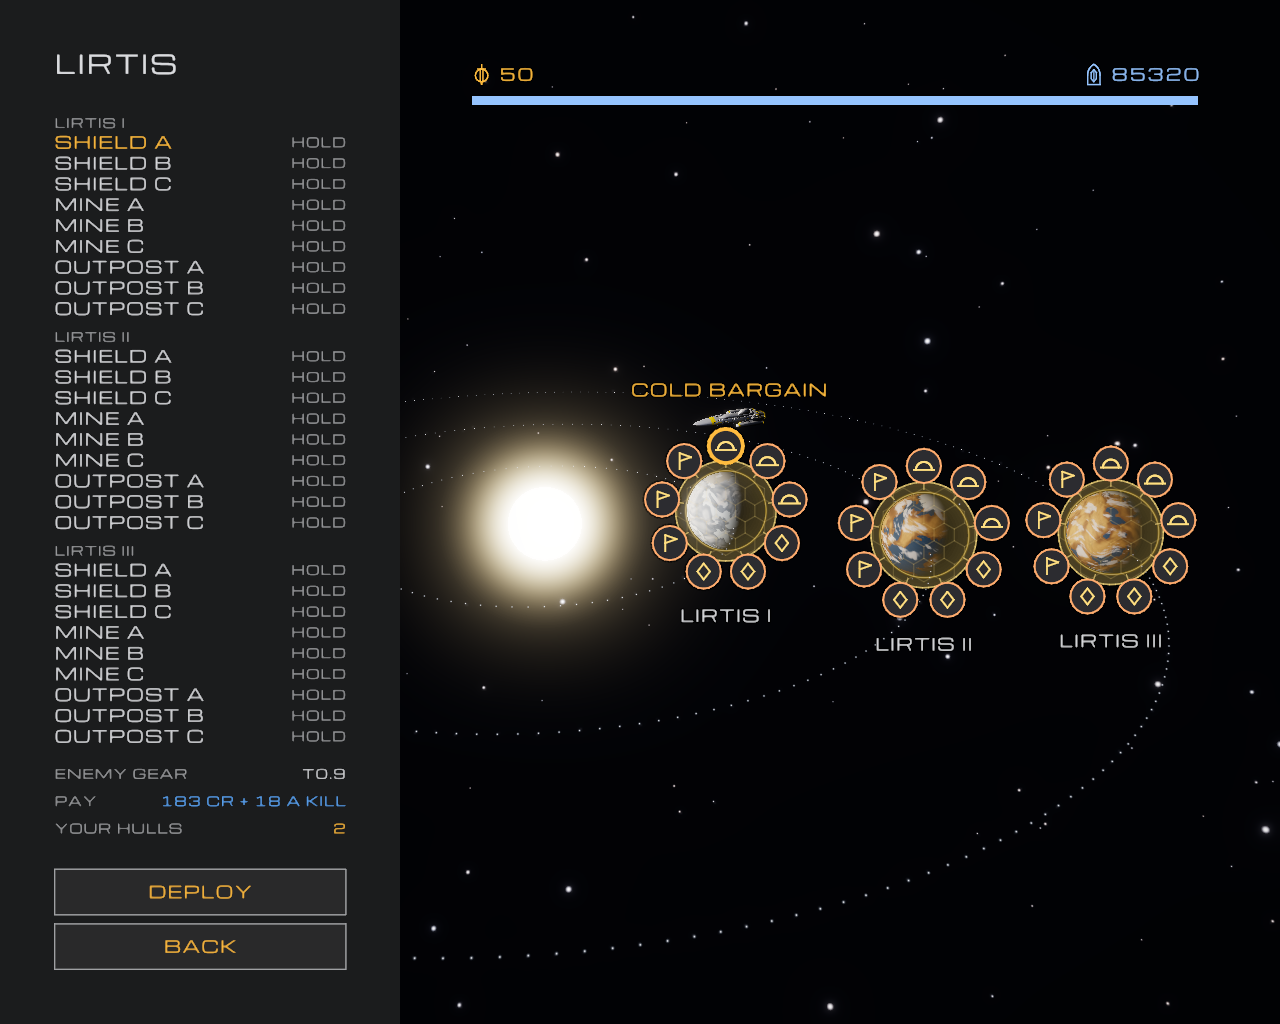
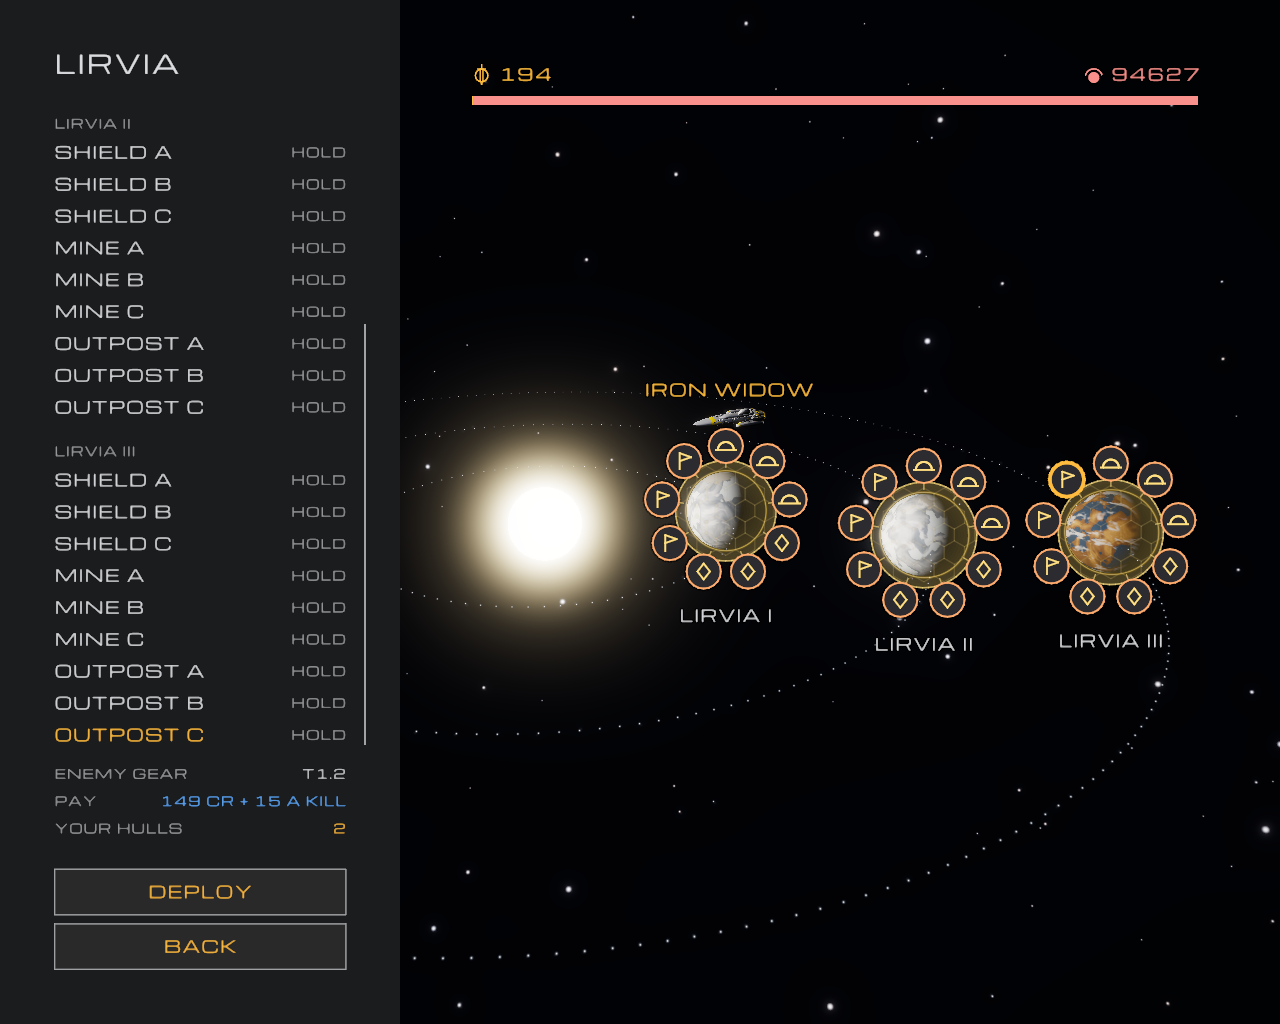
A contract's fights scroll, with a scroll bar (#693)
Claude-Session: https://claude.ai/code/session_01MEmTqDxywBf35SVCWrzMAE

diff --git a/src/menu.rs b/src/menu.rs
@@ -9,6 +9,7 @@
 //! body text. Colour is for signals only: who's hiring, and what's locked.
 
 use glam::Vec2;
+use std::cell::Cell;
 use winit::keyboard::KeyCode;
 
 use crate::binds::{self, ACTIONS, Binds, Context, SLOTS};
@@ -280,6 +281,8 @@ pub struct Menu {
     switched: bool,
     /// Index into the theater's contested sites.
     site: usize,
+    /// The contract page's list of fights, as scrolled.
+    fights: FightScroll,
     /// The contracts on offer (the app keeps them up to date).
     pub board: Board,
     /// The ship whose offer's deal is on screen (a `Company::id`).
@@ -307,6 +310,7 @@ impl Menu {
             clock: 0.0,
             switched: false,
             site: 0,
+            fights: FightScroll::default(),
             board: Board::default(),
             previewing: 0,
             setting: 0,
@@ -418,9 +422,15 @@ impl Menu {
         matches!(self.screen, Screen::Ships | Screen::Contract)
     }
 
-    /// Scroll the board by the wheel. True if it moved.
+    /// Scroll the board, or a contract's fights, by the wheel. True if it moved.
     pub fn scroll(&mut self, steps: i32) -> bool {
-        self.screen == Screen::Ships && self.board.scroll(steps)
+        match self.screen {
+            Screen::Ships => self.board.scroll(steps),
+            Screen::Missions if self.card.is_none() && self.transfer.is_none() => {
+                self.fights.scroll(steps as f32 * FIGHT * 2.0)
+            }
+            _ => false,
+        }
     }
 
     /// The offer whose deal is on screen.
@@ -1036,23 +1046,49 @@ impl Menu {
             .collect();
         let any = !fights.is_empty();
         let site = |k: usize| &t.sites[t.contested[k]];
-        // Set closer where there are too many to fit above the stakes.
-        let mut worlds: Vec<u8> = fights.iter().map(|&k| site(k).planet).collect();
-        worlds.dedup();
-        let room = stakes_y(h) - UNIT * 2.0 - y;
-        let (heading, gap, pitch) = fight_spacing(worlds.len(), fights.len(), room);
-        let mut world = None;
-        for &k in &fights {
-            let s = site(k);
-            if world != Some(s.planet) {
-                if world.is_some() {
-                    y += gap;
+        // Laid out from the list's top: each world's name, then its fights.
+        let mut heads = Vec::new();
+        let mut rows = Vec::new();
+        let mut at = UNIT;
+        for (n, &k) in fights.iter().enumerate() {
+            let planet = site(k).planet;
+            let first = n == 0 || site(fights[n - 1]).planet != planet;
+            let top = at;
+            if first {
+                if n > 0 {
+                    at += UNIT * 1.5;
                 }
-                world = Some(s.planet);
-                let name = planet_name(&t.name, s.planet);
-                p.text(Vec2::new(x, y), &name, &SMALL.colored(TEXT_2), Align::Left);
-                y += heading;
+                heads.push((planet, at));
+                at += UNIT * 3.0;
             }
+            rows.push((k, at, top));
+            at += FIGHT;
+        }
+        let tall = at;
+        // Scrolled and clipped to what's above the stakes, the pick in view
+        // when it's a new one.
+        let pad = (FIGHT - BODY.size) * 0.5;
+        let top = y - UNIT;
+        let view = stakes_y(h) - UNIT * 2.0 - top;
+        let picked = rows.iter().find(|r| r.0 == self.site);
+        let picked = picked.map(|&(k, at, above)| {
+            let key = (t.system, site(k).index);
+            (key, above - UNIT, at - pad + FIGHT)
+        });
+        let off = self.fights.place(picked, view, tall);
+        let clip = (
+            Vec2::new(0.0, top),
+            Vec2::new(right + UNIT * 4.0, top + view),
+        );
+        p.set_clip(Some(clip));
+        for (planet, at) in heads {
+            let name = planet_name(&t.name, planet);
+            let at = Vec2::new(x, top + at - off);
+            p.text(at, &name, &SMALL.colored(TEXT_2), Align::Left);
+        }
+        for &(k, at, _) in &rows {
+            let s = site(k);
+            let y = top + at - off;
             // Lettered, where a world has several of a kind.
             let alike: Vec<usize> = fights
                 .iter()
@@ -1074,14 +1110,24 @@ impl Menu {
             let at = Vec2::new(right, y + (BODY.size - SMALL.size) * 0.5);
             let style = SMALL.colored(design::hovered(TEXT_2, over));
             p.text(at, mode, &style, Align::Right);
-            let pad = (pitch - BODY.size) * 0.5;
-            hits.add(
-                p,
-                Vec2::new(x - UNIT * 2.0, y - pad),
-                Vec2::new(design::COLUMN + UNIT * 4.0, pitch),
-                Hit::Row(k),
-            );
-            y += pitch;
+            // Only what's in view of it can be clicked.
+            let (a, b) = (y - pad, y - pad + FIGHT);
+            let (a, b) = (a.max(clip.0.y), b.min(clip.1.y));
+            if b > a {
+                let size = Vec2::new(design::COLUMN + UNIT * 4.0, b - a);
+                hits.add(p, Vec2::new(x - UNIT * 2.0, a), size, Hit::Row(k));
+            }
+        }
+        p.set_clip(None);
+        // Scroll bar beside the list.
+        let over = tall - view;
+        if over > 0.5 {
+            let len = view * view / tall;
+            let at = Vec2::new(right + UNIT * 2.0, top + (view - len) * off / over);
+            p.rect(at, Vec2::new(2.0, len), TEXT_2);
+        }
+        if any {
+            y = top + tall.min(view);
         }
         let picked = self.selected_site().filter(|s| s.committed);
         let Some(site) = picked.filter(|_| any) else {
@@ -1121,16 +1167,39 @@ fn stakes_y(h: f32) -> f32 {
     design::foot(h, 1).y - UNIT * 2.0 - STAKE * 3.0
 }
 
-/// A contract page's list of `fights` on so many `worlds`: how far each
-/// world's heading is above its first fight, the gap above the next heading,
-/// and from one fight to the next. All closer together, if that's what it
-/// takes to fit in `room`.
-fn fight_spacing(worlds: usize, fights: usize, room: f32) -> (f32, f32, f32) {
-    let (heading, gap, pitch) = (UNIT * 3.0, UNIT * 1.5, UNIT * 3.5);
-    let tall =
-        heading * worlds as f32 + gap * worlds.saturating_sub(1) as f32 + pitch * fights as f32;
-    let k = (room / tall.max(1.0)).min(1.0);
-    (heading * k, gap * k, pitch * k)
+/// From one fight in a contract page's list to the next.
+const FIGHT: f32 = UNIT * 3.5;
+
+/// How far a contract page's list of fights is scrolled.
+#[derive(Default)]
+struct FightScroll {
+    /// How far down, px, and the furthest it goes (as last drawn).
+    off: Cell<f32>,
+    most: Cell<f32>,
+    /// The pick last brought into view: its system and site.
+    shown: Cell<Option<(usize, usize)>>,
+}
+
+impl FightScroll {
+    /// Scroll `by` px, stopping at the ends. True if it moved.
+    fn scroll(&self, by: f32) -> bool {
+        let was = self.off.get();
+        self.off.set((was + by).clamp(0.0, self.most.get()));
+        self.off.get() != was
+    }
+
+    /// How far down a list `tall` is, `view` of it showing; a new pick (its
+    /// system and site, top and bottom) is brought into view.
+    fn place(&self, picked: Option<((usize, usize), f32, f32)>, view: f32, tall: f32) -> f32 {
+        self.most.set((tall - view).max(0.0));
+        if let Some((key, top, bottom)) = picked
+            && self.shown.replace(Some(key)) != Some(key)
+        {
+            self.off.set(self.off.get().min(top).max(bottom - view));
+        }
+        self.scroll(0.0);
+        self.off.get()
+    }
 }
 
 /// The way back, as a button.
@@ -1841,7 +1910,7 @@ mod tests {
     /// Even where every site of the biggest system is fought over: three
     /// worlds, each with three of every kind.
     #[test]
-    fn a_big_systems_fights_fit_above_the_stakes() {
+    fn a_big_systems_fights_scroll_above_the_stakes() {
         use crate::galaxy::SiteKind;
         let mut t = theater(Faction::Ithessar).unwrap();
         let kinds = [
@@ -1868,26 +1937,35 @@ mod tests {
         let mut m = Menu::new();
         m.screen = Screen::Missions;
         m.set_theater(Some(t));
-        let hits = m.draw(&profile, 1600.0, 900.0, 1.0).hits;
-        // Each fight's line can be clicked, down the column, above the
-        // stakes and clear of the last.
-        let x = design::MARGIN;
-        let mut seen = Vec::new();
-        for y in 0..900 {
-            if let Some((Hit::Row(k), _)) = hits.at(Vec2::new(x, y as f32)) {
-                assert!((y as f32) < stakes_y(900.0) - UNIT, "row {k} at {y}");
-                if seen.last() != Some(&k) {
-                    seen.push(k);
+        // The fights that can be clicked, down the column, all above the stakes.
+        let seen = |m: &Menu| {
+            let hits = m.draw(&profile, 1600.0, 900.0, 1.0).hits;
+            let mut seen = Vec::new();
+            for y in 0..900 {
+                if let Some((Hit::Row(k), _)) = hits.at(Vec2::new(design::MARGIN, y as f32)) {
+                    assert!((y as f32) < stakes_y(900.0) - UNIT, "row {k} at {y}");
+                    if seen.last() != Some(&k) {
+                        seen.push(k);
+                    }
                 }
             }
+            seen
+        };
+        let top = seen(&m);
+        assert!(top[0] == 0 && top.len() < 27, "{top:?}");
+        // The wheel goes to the end and no further, the pick staying put.
+        assert!(m.scroll(50) && !m.scroll(1));
+        assert_eq!(seen(&m).last(), Some(&26));
+        assert!(!seen(&m).contains(&m.site));
+        assert!(m.scroll(-50) && !m.scroll(-1));
+        assert_eq!(seen(&m), top);
+        // Keys bring what they pick into view, round and round.
+        for _ in 0..27 {
+            m.input(Nav::Down);
+            assert!(seen(&m).contains(&m.site), "{}", m.site);
         }
-        assert_eq!(seen, (0..27).collect::<Vec<_>>());
-        // With room between lines, and a world's few fights as they were.
-        let room = stakes_y(900.0) - UNIT * 2.0 - design::MARGIN - UNIT * 7.0;
-        let (heading, _, pitch) = fight_spacing(3, 27, room);
-        assert!(pitch >= design::BODY.size + UNIT * 0.75, "{pitch}");
-        assert!(heading >= design::SMALL.size + UNIT * 0.75, "{heading}");
-        assert_eq!(fight_spacing(1, 9, room).2, UNIT * 3.5);
+        assert_eq!(m.site, 0);
+        assert_eq!(seen(&m), top);
     }
 
     /// Clicks the middle of `hit` where `draw` put it.

diff --git a/src/app.rs b/src/app.rs
@@ -539,7 +539,7 @@ impl ApplicationHandler for App {
                 };
                 self.garage.scroll(-lines * 60.0);
             }
-            // The board of work scrolls (#454).
+            // The board of work scrolls (#454), and a contract's fights (#693).
             WindowEvent::MouseWheel { delta, .. } if self.mode == Mode::Menu => {
                 self.wheel += match delta {
                     MouseScrollDelta::LineDelta(_, y) => y,
